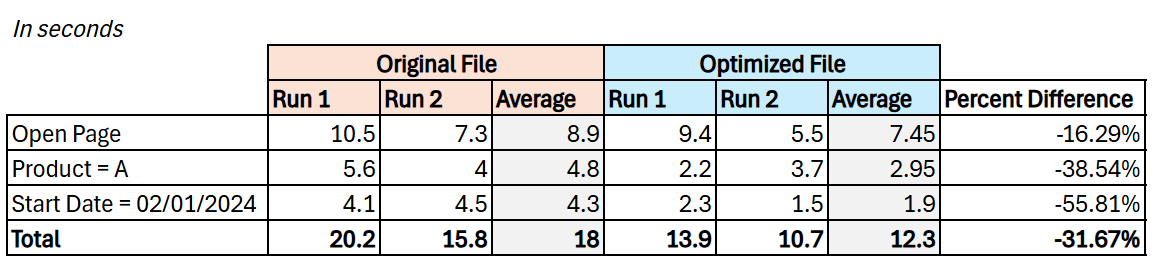
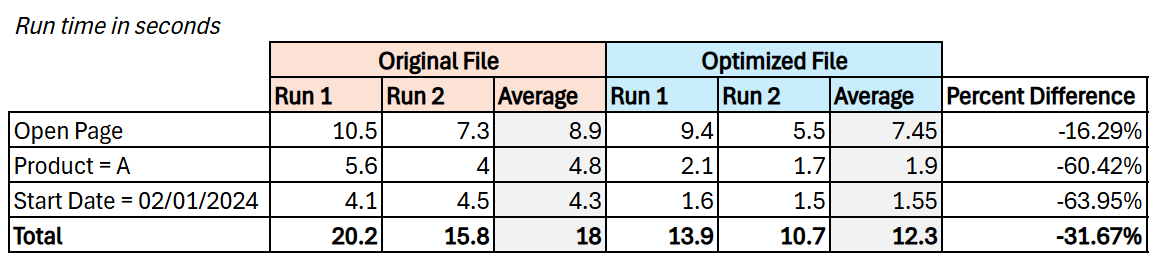
Rendering blog.

Changed region(s): [[0.0, 0.1533, 0.9983, 0.9808], [0.0, 0.0613, 0.1872, 0.1533]]

diff --git a/docs/posts/2024-06-14-Blog1/2024-06-14-Blog1.html b/docs/posts/2024-06-14-Blog1/2024-06-14-Blog1.html
@@ -166,7 +166,7 @@ ul.task-list li input[type="checkbox"] {
   <li><a href="#perform-tests-and-research-on-tools" id="toc-perform-tests-and-research-on-tools" class="nav-link" data-scroll-target="#perform-tests-and-research-on-tools">Perform Tests and Research on Tools</a></li>
   <li><a href="#revisit-your-dashboard-purposeuse-cases" id="toc-revisit-your-dashboard-purposeuse-cases" class="nav-link" data-scroll-target="#revisit-your-dashboard-purposeuse-cases">Revisit Your Dashboard Purpose/Use Cases</a></li>
   </ul></li>
-  <li><a href="#helpful-resources" id="toc-helpful-resources" class="nav-link" data-scroll-target="#helpful-resources">Helpful resources?</a></li>
+  <li><a href="#summary" id="toc-summary" class="nav-link" data-scroll-target="#summary">Summary</a></li>
   </ul>
 </nav>
     </div>
@@ -187,7 +187,7 @@ ul.task-list li input[type="checkbox"] {
 <h2 class="anchored" data-anchor-id="the-data-model-side">The Data Model Side</h2>
 <ul>
 <li><p>Check your <strong>schema</strong>. Power BI is more optimized for a <strong>star schema</strong> since the dimensions are helpful for filtering and grouping, while the fact table is for summarizing, all in all improving <strong>aggregation</strong>. Having a flat file is still acceptable but only for small data sets. If you are dealing with large volumes of data (ex. each row is a transaction, and there can be millions of transactions in a day) then a flat file just won’t cut it. Its performance and refresh is a lot slower, and maintenance will be more difficult down the line.</p></li>
-<li><p>Do you have <strong>many-to-many</strong> relationships? Having this kind of relationship means that the two data sets you are connecting have duplicate values. The problem with this is it introduces ambiguity and may produce incorrect results (ex. in choosing an option from the slicer, from which table will the dashboard show the value?). This can also lead to excessive computing resources since the program will compute against multiple values across multiple tables.</p></li>
+<li><p>Do you have <strong>many-to-many</strong> relationships? Having this kind of relationship means that the two data sets you are connecting have duplicate values. The problem with this is it introduces ambiguity and may produce incorrect results (ex. in choosing an option from the slicer, from which table will the dashboard show the value?). This can also lead to excessive computing resources since the program will compute against multiple values across multiple tables. Power BI prefers <strong>one-to-many</strong> relationships.</p></li>
 <li><p>Look at your <strong>Power Query</strong> <strong>transformations</strong>. Some particular heavy transformations are <strong>merge</strong> or <strong>append</strong>. Doing this is not a problem in it of itself, especially if your data set is not at all huge. However, doing merges and appends <em>several times</em> with <em>large</em> <em>data volumes</em> can definitely contribute to slow performance.</p></li>
 <li><p>Are your <strong>DAX queries complicated</strong>? A heavily nested SWITCH statements, for example, will definitely slow down your dashboard as a measure has to re-calculate every time you interact with a report.</p></li>
 <li><p>Similarly, <strong>calculated tables and columns</strong> are also not ideal, as these have to be re-calculated every time you refresh.</p></li>
@@ -243,7 +243,7 @@ Roche’s Maxim of Data Transformation
 <h2 class="anchored" data-anchor-id="perform-tests-and-research-on-tools">Perform Tests and Research on Tools</h2>
 <p>After you are done putting your calculations upstream, consider comparing this optimized version of the file to the un-optimized/original one. See if it makes a difference on performance. If the difference is negligible, then upstreaming the calculations might not be the only solution; you may have to consider the visual side like removing redundant visuals or combining them into one. Perhaps it’s the DAX measures and you should consider simplifying them.</p>
 <p>Performing tests can give several insights as to what to do to elevate your dashboard. In order to do this, you may use tools such as Power BI’s native <strong>Performance Analyzer</strong>, or external tools like <strong>DAX Studio</strong> and <strong>Tabular Editor</strong>.</p>
-<p>Personally, I like to use the (Advanced Power BI Performance Analyzer)[<a href="https://smartpowerbi.co.uk/2021/10/12/advanced-power-bi-performance-analyser-by-smartpowerbi/" class="uri">https://smartpowerbi.co.uk/2021/10/12/advanced-power-bi-performance-analyser-by-smartpowerbi/</a>]by <strong>SmartPowerBI</strong>. If you’re like me who has a difficult time digesting the numbers in Performance Analyzer, this tool takes the exported JSON file from Performance Analyzer and presents it visually. I discovered this tool from (Guy In A Cube’s video)[<a href="https://www.youtube.com/watch?v=Z-J4n9uymQ0&amp;t=2s" class="uri">https://www.youtube.com/watch?v=Z-J4n9uymQ0&amp;t=2s</a>] and I suggest you watch it too.</p>
+<p>Personally, I like to use the <a href="https://smartpowerbi.co.uk/2021/10/12/advanced-power-bi-performance-analyser-by-smartpowerbi/">Advanced Power BI Performance Analyzer</a> by <strong>SmartPowerBI</strong>. If you’re like me who has a difficult time digesting the numbers in Performance Analyzer, this tool takes the exported JSON file from Performance Analyzer and presents it visually. I discovered this tool from <a href="https://www.youtube.com/watch?v=Z-J4n9uymQ0&amp;t=2s">Guy In A Cube’s video</a> and I suggest you watch it too.</p>
 <p>This is how my teammates and I performed the tests using this tool.</p>
 <ol type="1">
 <li>Define the steps you want to do for the page you want to test on. This way, you can see which step takes the longest and identify a possible bottleneck. It can look like this:
@@ -264,11 +264,11 @@ Note
 </div>
 </div>
 <div class="callout-body-container callout-body">
-<p>Note that results may vary per test. On some tests, the optimized file can be slower compared to the optimized file. This can also vary per device. Consider doing the tests multiple times on multiple devices then averaging the results.</p>
+<p>Results may vary per test. On some tests, the optimized file can be slower compared to the optimized file. This can also vary per device. Consider doing the tests multiple times on multiple devices then averaging the results.</p>
 </div>
 </div>
 <ol start="3" type="1">
-<li>Compile and compare the results. Here’s an example of compiled run times. The “Total” row represents the sum of all steps for Run 1 and 2 (so 10.5 + 5.6 + 4.1 = 20.2), while the “Average” column represents the average of the two runs (so the mean of 10.5 and 7.3 is 8.9, and 20.2 and 15.8 is equal to 18). As you can see, we have improved the dashboard on average by 32%.</li>
+<li>Compile and compare the results. Here’s an example of compiled run times. The “Total” row represents the sum of all steps for Run 1 and 2 (so 10.5 + 5.6 + 4.1 = 20.2), while the “Average” column represents the average of the two runs (so the mean of 10.5 and 7.3 is 8.9, and 20.2 and 15.8 is equal to 18). As you can see, we have improved the dashboard on average by 32%. The opening times did not improve as much, though the filtering improved by around 60%. This tells me that our optimization efforts in improving the DAX for these steps worked.</li>
 </ol>
 <div class="quarto-figure quarto-figure-center">
 <figure class="figure">
@@ -290,12 +290,13 @@ Note
 </ul>
 </section>
 </section>
-<section id="helpful-resources" class="level1">
-<h1>Helpful resources?</h1>
-<p>You can read about star schemas here <a href="https://learn.microsoft.com/en-us/power-bi/guidance/star-schema" class="uri">https://learn.microsoft.com/en-us/power-bi/guidance/star-schema</a></p>
-<p>Roche’s maxim: <a href="https://www.youtube.com/watch?v=OAlys79j81Q&amp;t=166s" class="uri">https://www.youtube.com/watch?v=OAlys79j81Q&amp;t=166s</a></p>
-<p>smart BI: <a href="https://www.youtube.com/watch?v=Z-J4n9uymQ0&amp;t=2s" class="uri">https://www.youtube.com/watch?v=Z-J4n9uymQ0&amp;t=2s</a></p>
-<p>smart BI documentation: <a href="https://smartpowerbi.co.uk/2021/10/12/advanced-power-bi-performance-analyser-by-smartpowerbi/" class="uri">https://smartpowerbi.co.uk/2021/10/12/advanced-power-bi-performance-analyser-by-smartpowerbi/</a></p>
+<section id="summary" class="level1">
+<h1>Summary</h1>
+<ol type="1">
+<li>Identify the root causes of your dashboard’s slow performance. Check your data model if it’s aligned with best practices like using one-to-many relationships and a star-schema. Double check your transformations in Power Query and if you are retaining unnecessary columns. See which DAX queries are slow and taking up too much computing resources.</li>
+<li>After identifying the reasons, try to upstream some calculations and calculated columns/tables. Perform tests against your original file to see if your efforts have improved. Experiment with solutions outside of your data model, like reducing or combining multiple visuals.</li>
+<li>Make sure to perform the tests multiple times on multiple devices as the numbers can come out random.</li>
+</ol>
 
 
 </section>

diff --git a/docs/posts.html b/docs/posts.html
@@ -202,7 +202,7 @@ window.Quarto = {
 
 <div class="quarto-listing quarto-listing-container-default" id="listing-listing">
 <div class="list quarto-listing-default">
-<div class="quarto-post image-right" data-index="0" data-categories="Power BI" data-listing-date-sort="1718380800000" data-listing-file-modified-sort="1718598120352" data-listing-date-modified-sort="NaN" data-listing-reading-time-sort="10" data-listing-word-count-sort="1866">
+<div class="quarto-post image-right" data-index="0" data-categories="Power BI" data-listing-date-sort="1718380800000" data-listing-file-modified-sort="1718601667319" data-listing-date-modified-sort="NaN" data-listing-reading-time-sort="10" data-listing-word-count-sort="1998">
 <div class="thumbnail">
 <p><a href="./posts/2024-06-14-Blog1/2024-06-14-Blog1.html" class="no-external"></a></p><a href="./posts/2024-06-14-Blog1/2024-06-14-Blog1.html" class="no-external">
 <p><img src="./posts/2024-06-14-Blog1/Loading.PNG" class="thumbnail-image"></p>
